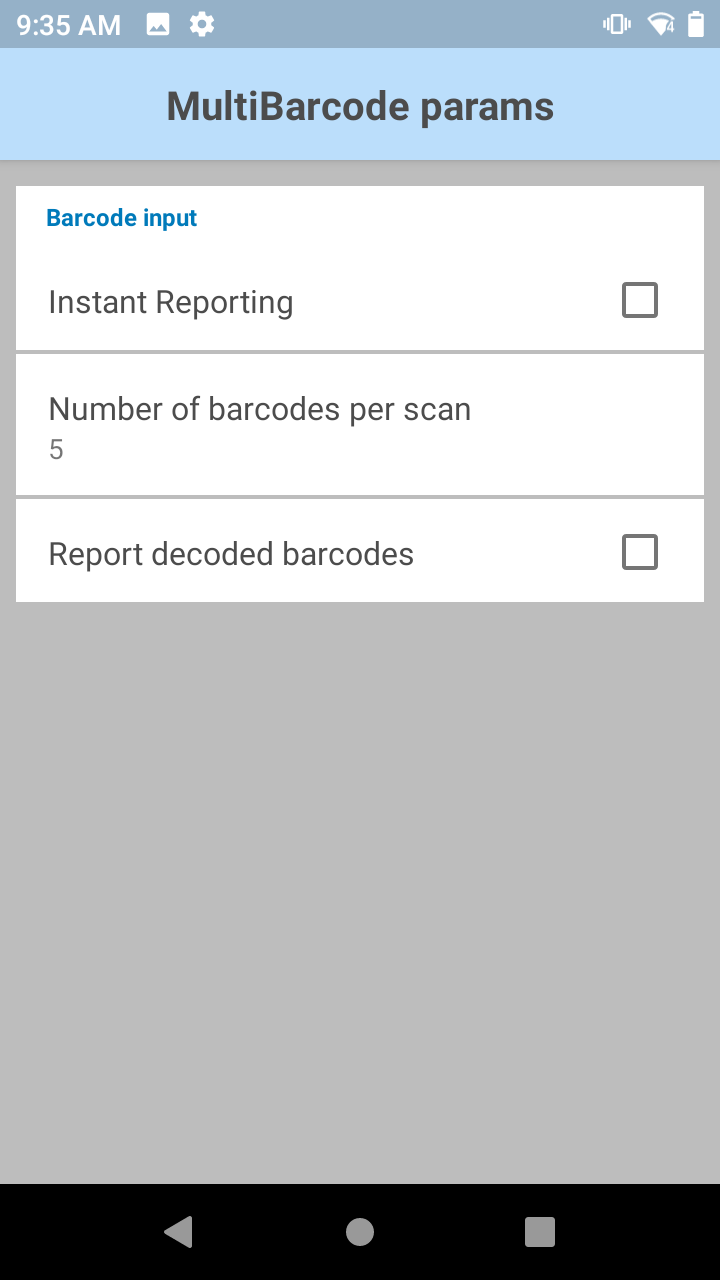
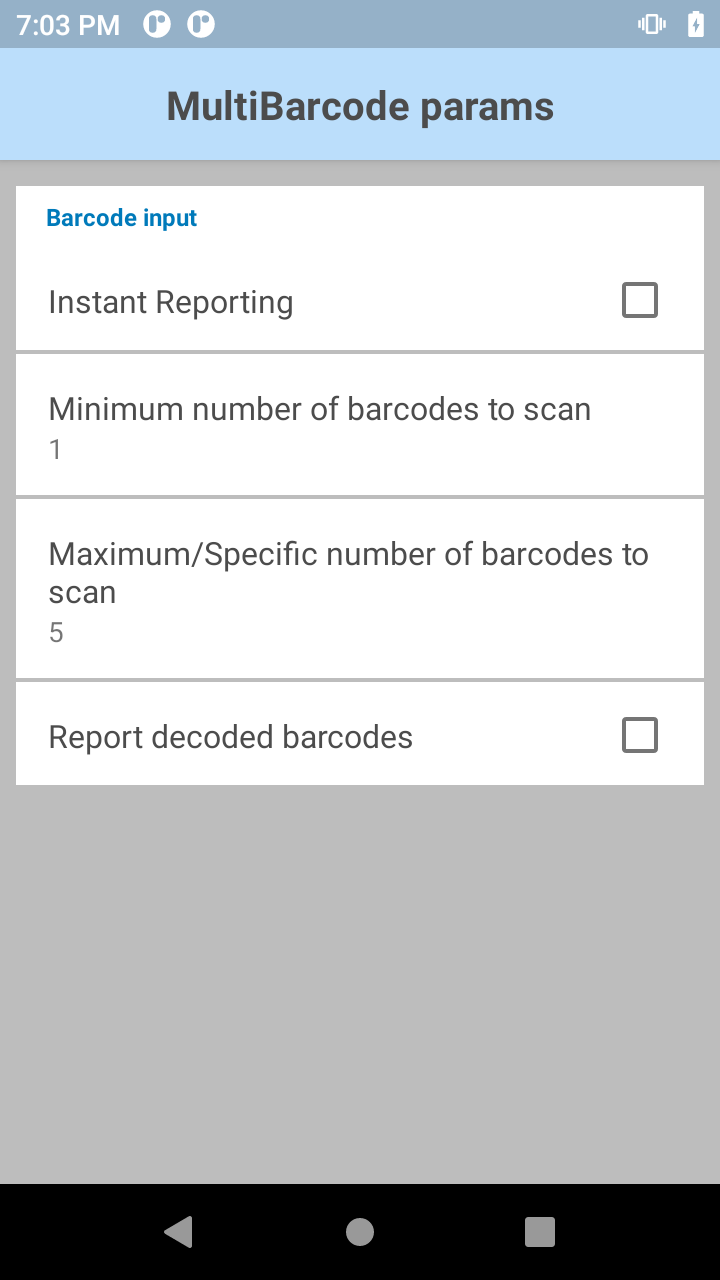
[TUT-54076] DW 11.1 - Multibarcode params

diff --git a/datawedge/11-1/guide/input/barcode/index.html b/datawedge/11-1/guide/input/barcode/index.html
@@ -783,6 +783,10 @@ After the NextGen SimulScan template is imported for Document Capture, the **Doc
 <ul>
 <li><strong>Instant Reporting -</strong> Enable/Disable immediate reporting of unique barcodes within a scanning session; duplicate barcodes are ignored. If enabled, it ignores the value of <strong>Maximum/Specific number of barcodes per scan</strong> and immediately reports the scanned data. If disabled (default), the decoded data is returned as a single entity after reaching the <strong>Maximum/Specific number of barcodes per scan.</strong> If barcode separators are designated to be output (using <a href="../../output/ip">IP Output</a> or <a href="../../output/keystroke">Keystroke Output</a>) for multibarcodes, these separators are not added - by design, the barcodes are output one at a time with <strong>Instant Reporting.</strong></li>
 
+<li><strong>Minimum number of barcodes per scan -</strong> This represents the lower limit for number of barcodes to scan in a single scan session, if <strong>Report decoded barcodes</strong> is enabled, barcode data is decoded only if the number of barcodes scanned is between the range of <strong>Minimum number of barcodes to scan</strong> and <strong>Maximum/Specific number of barcodes to scan.</strong>  Set this value to 0 to eliminate the minimum limit from taking into effect and set a specific value for <strong>Maximum/Specific number of barcodes per scan.</strong> If <strong>Report decoded barcodes</strong> is disabled, this option is grayed out and inaccessible.</li>
+
+<li><strong>Maximum/Specific number of barcodes per scan -</strong> This represents the higher limit for number of barcodes to scan if <strong>Report decoded barcodes</strong> is enabled; barcode data is decoded only if the number of barcodes is between the range of <strong>Minimum number of barcodes to scan</strong> and <strong>Maximum/Specific number of barcodes to scan.</strong>  If <strong>Report decoded barcodes</strong> is disabled, this represents the specific number of barcodes to scan in a single scan session.</li>
+
 <li><strong>Report Decoded Barcodes -</strong> Enable/Disable reporting of decoded barcode data in a single scan session irrespective of the specified <strong>Maximum/Specific number of barcodes per scan.</strong> If disabled, the decoded barcodes are reported when the <strong>Maximum/Specific number of barcodes per scan</strong> is reached in the scan session. If enabled, the decoded barcodes are reported when the number of barcodes scanned is between the range of <strong>Minimum number of barcodes per scan</strong> and  <strong>Maximum/specific number of barcodes per scan.</strong> Consider the following behavior when <strong>Report decoded barcodes</strong> is enabled:
 
 
@@ -791,13 +795,7 @@ After the NextGen SimulScan template is imported for Document Capture, the **Doc
 
 <li>If <strong>Instant Reporting</strong> is also enabled, <strong>Instant Reporting</strong> takes higher priority.</li></ul>
 </li>
-
-<li><strong>Minimum number of barcodes per scan -</strong> This represents the lower limit for number of barcodes to scan in a single scan session, if <strong>Report decoded barcodes</strong> is enabled, barcode data is decoded only if the number of barcodes scanned is between the range of <strong>Minimum number of barcodes to scan</strong> and <strong>Maximum/Specific number of barcodes to scan.</strong>  Set this value to 0 to eliminate the minimum limit from taking into effect and set a specific value for <strong>Maximum/Specific number of barcodes per scan.</strong> If <strong>Report decoded barcodes</strong> is disabled, this option is grayed out and inaccessible.</li>
-
-<li><strong>Maximum/Specific number of barcodes per scan -</strong> This represents the higher limit for number of barcodes to scan if <strong>Report decoded barcodes</strong> is enabled; barcode data is decoded only if the number of barcodes is between the range of <strong>Minimum number of barcodes to scan</strong> and <strong>Maximum/Specific number of barcodes to scan.</strong>  If <strong>Report decoded barcodes</strong> is disabled, this represents the specific number of barcodes to scan in a single scan session.</li>
 </ul>
-
-<p>Note: If the <strong>Beam Timer</strong> expires during any of the scan sessions prior to meeting the specific criteria (e.g. minimum/maximum number of barcodes), the scanned data is not reported.</p>
 
 <p><strong>MultiBarcode Notes:</strong></p>
 
@@ -815,6 +813,8 @@ After the NextGen SimulScan template is imported for Document Capture, the **Doc
 <li><strong>Barcodes in view -</strong>If the specified number of barcodes is not initially in view of the scanner, the scanner will not decode any data. If the scanner's field of view contains a number of barcodes greater than the specified quantity, the scanner will randomly decode barcode(s) until the specified number is reached. For example, if the count is set to two and eight barcodes are in the field of view, the scanner will decode the first two barcodes it sees, returning the data in random order. <strong>Data is returned only after the specified number of barcodes is read</strong>.</li>
 
 <li><strong>If both Continuous Read and Instant Reporting parameters are enabled, Instant Reporting</strong> takes precedence over <strong>Continuous Read,</strong> which is ignored.</li>
+
+<li><strong>If the Beam Timer expires</strong> during any of the scan sessions prior to meeting the specific criteria (e.g. minimum/maximum number of barcodes), the scanned data is not reported.</li>
 </ul>
 
 <hr>
